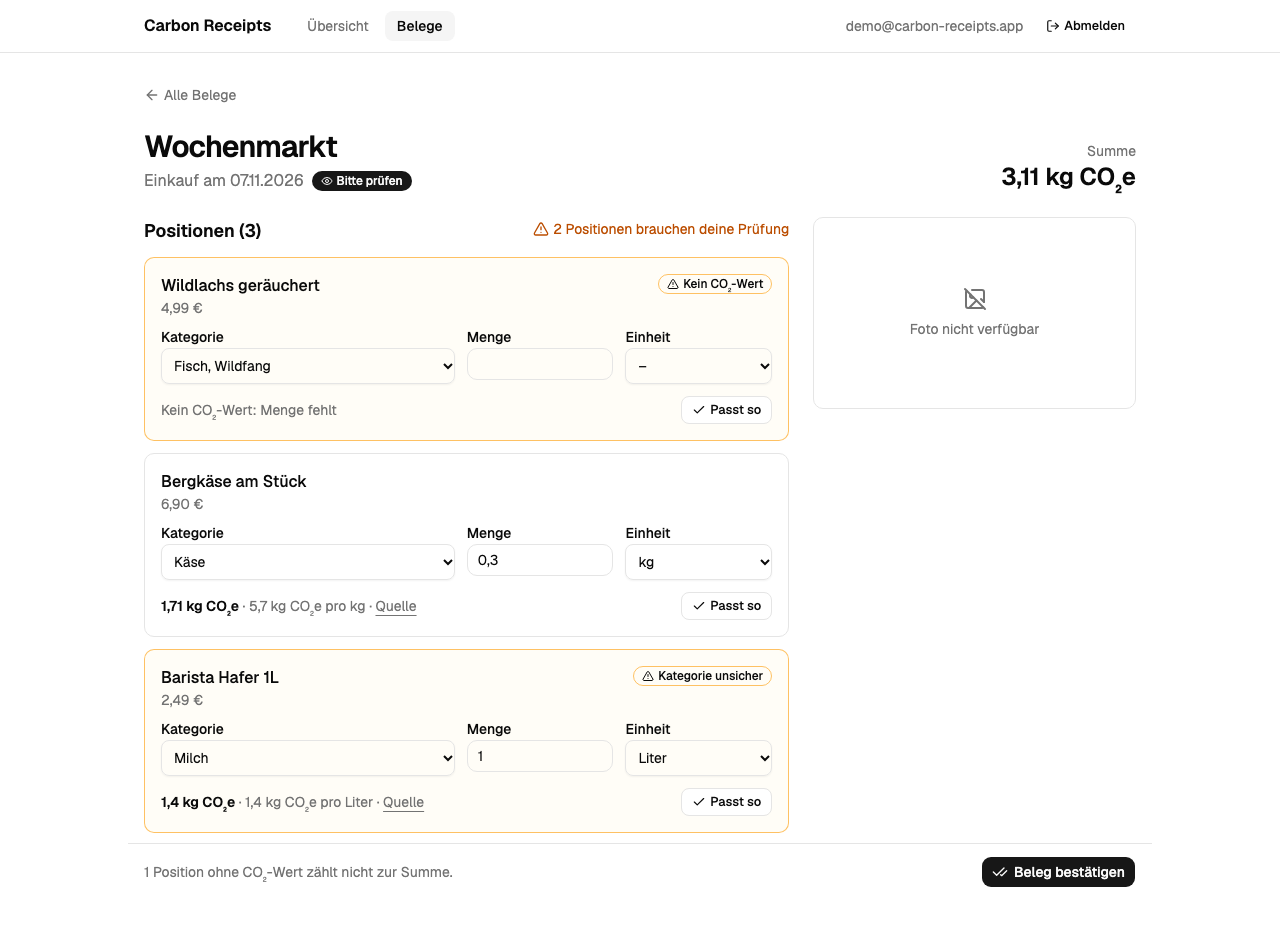
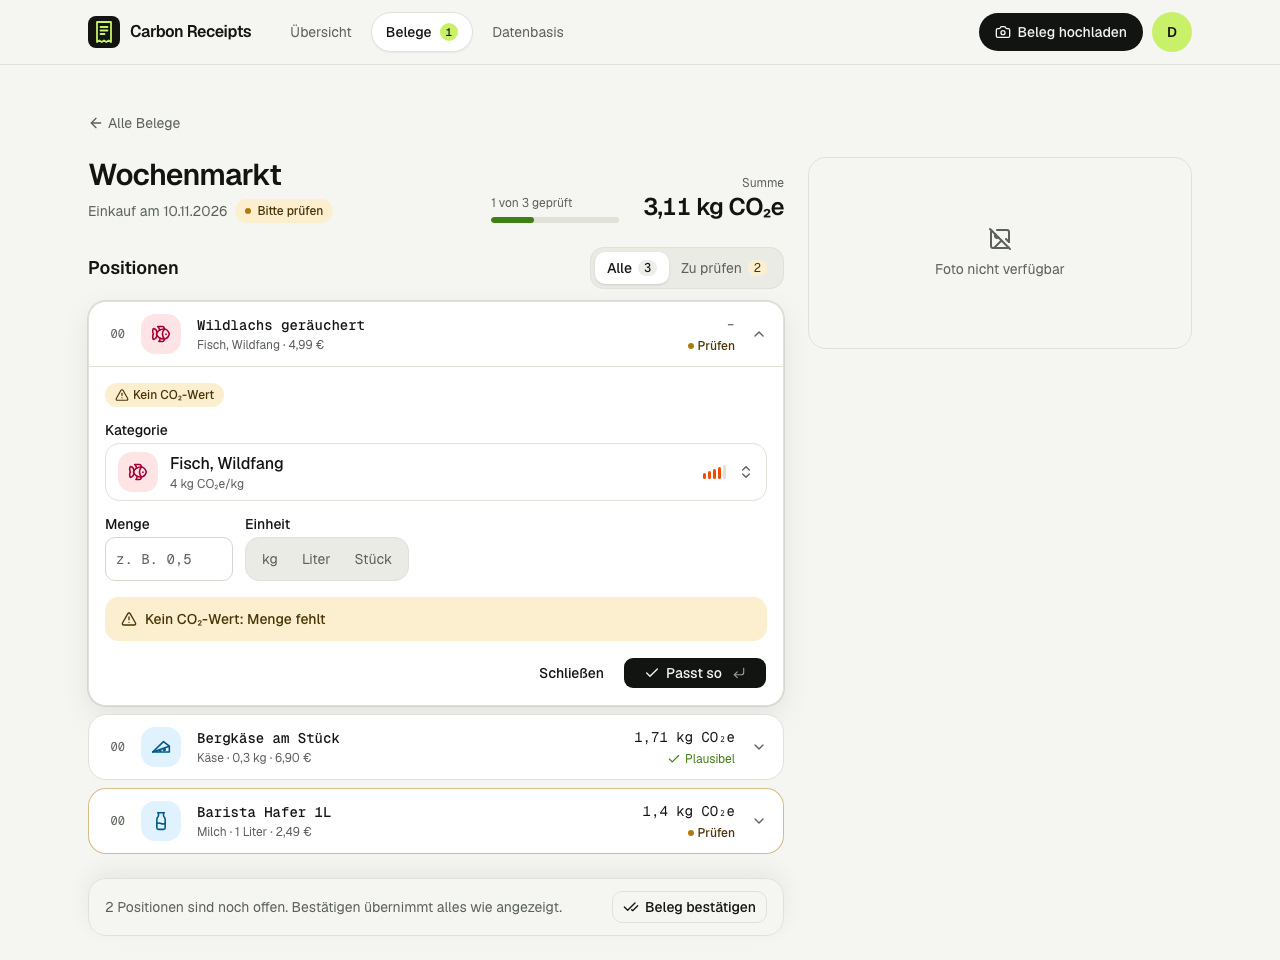
docs: current screenshots, CI checks the account function

diff --git a/README.md b/README.md
@@ -16,9 +16,9 @@ dashboard shows the trend, hotspots, concrete alternatives and a monthly goal.
 
 ![Dashboard](docs/screenshots/dashboard.png)
 
-| Review                                 | Mobile                                                                                  |
-| -------------------------------------- | --------------------------------------------------------------------------------------- |
-| ![Review](docs/screenshots/review.png) | <img src="docs/screenshots/dashboard-mobile.png" width="260" alt="Dashboard on mobile"> |
+| Review                                 | Data basis                                     | Mobile                                                                                  |
+| -------------------------------------- | ---------------------------------------------- | --------------------------------------------------------------------------------------- |
+| ![Review](docs/screenshots/review.png) | ![Data basis](docs/screenshots/data-basis.png) | <img src="docs/screenshots/dashboard-mobile.png" width="260" alt="Dashboard on mobile"> |
 
 ## Features
 
